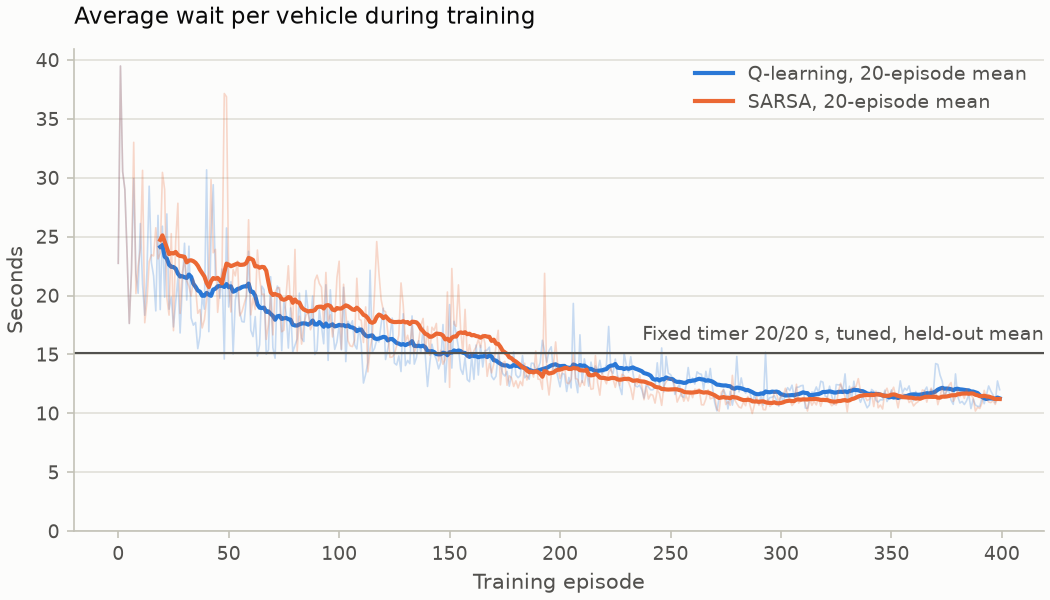
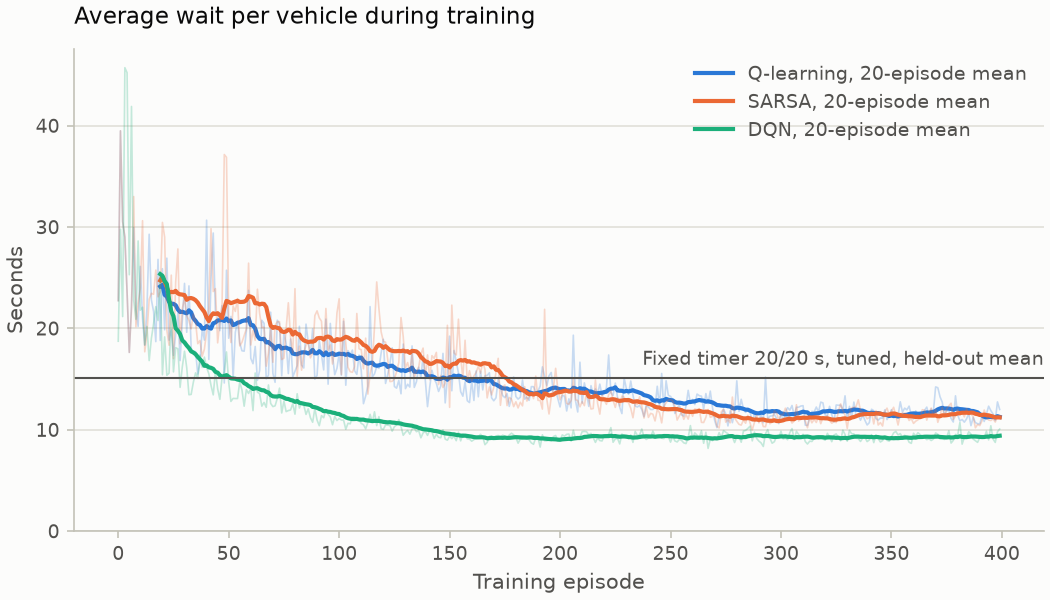
[phase 7] add DQN to results and docs; pipeline trains it when available
Held-out avg wait: DQN 9.35 +- 0.32 s, SARSA 11.43, Q-learning 12.22,
tuned timer 15.14. DESIGN and the MDP doc record the DQN settings and
the caveats (one seed, gamma 0.99 vs 0.95). train_dqn creates its model
folder, and the pipeline skips DQN with a message if SB3 is missing.

diff --git a/src/traffic_rl/agents/dqn.py b/src/traffic_rl/agents/dqn.py
@@ -78,5 +78,6 @@ def train_dqn(config: dict[str, Any], output: Path, episodes: int | None = None)
     model.learn(episodes * max_steps, callback=StopTrainingOnMaxEpisodes(episodes))
     write_rows(output / "runs" / "dqn" / "metrics.csv", env.rows)
     model_path = output / "models" / "dqn.zip"
+    model_path.parent.mkdir(parents=True, exist_ok=True)
     model.save(model_path)
     return model_path
